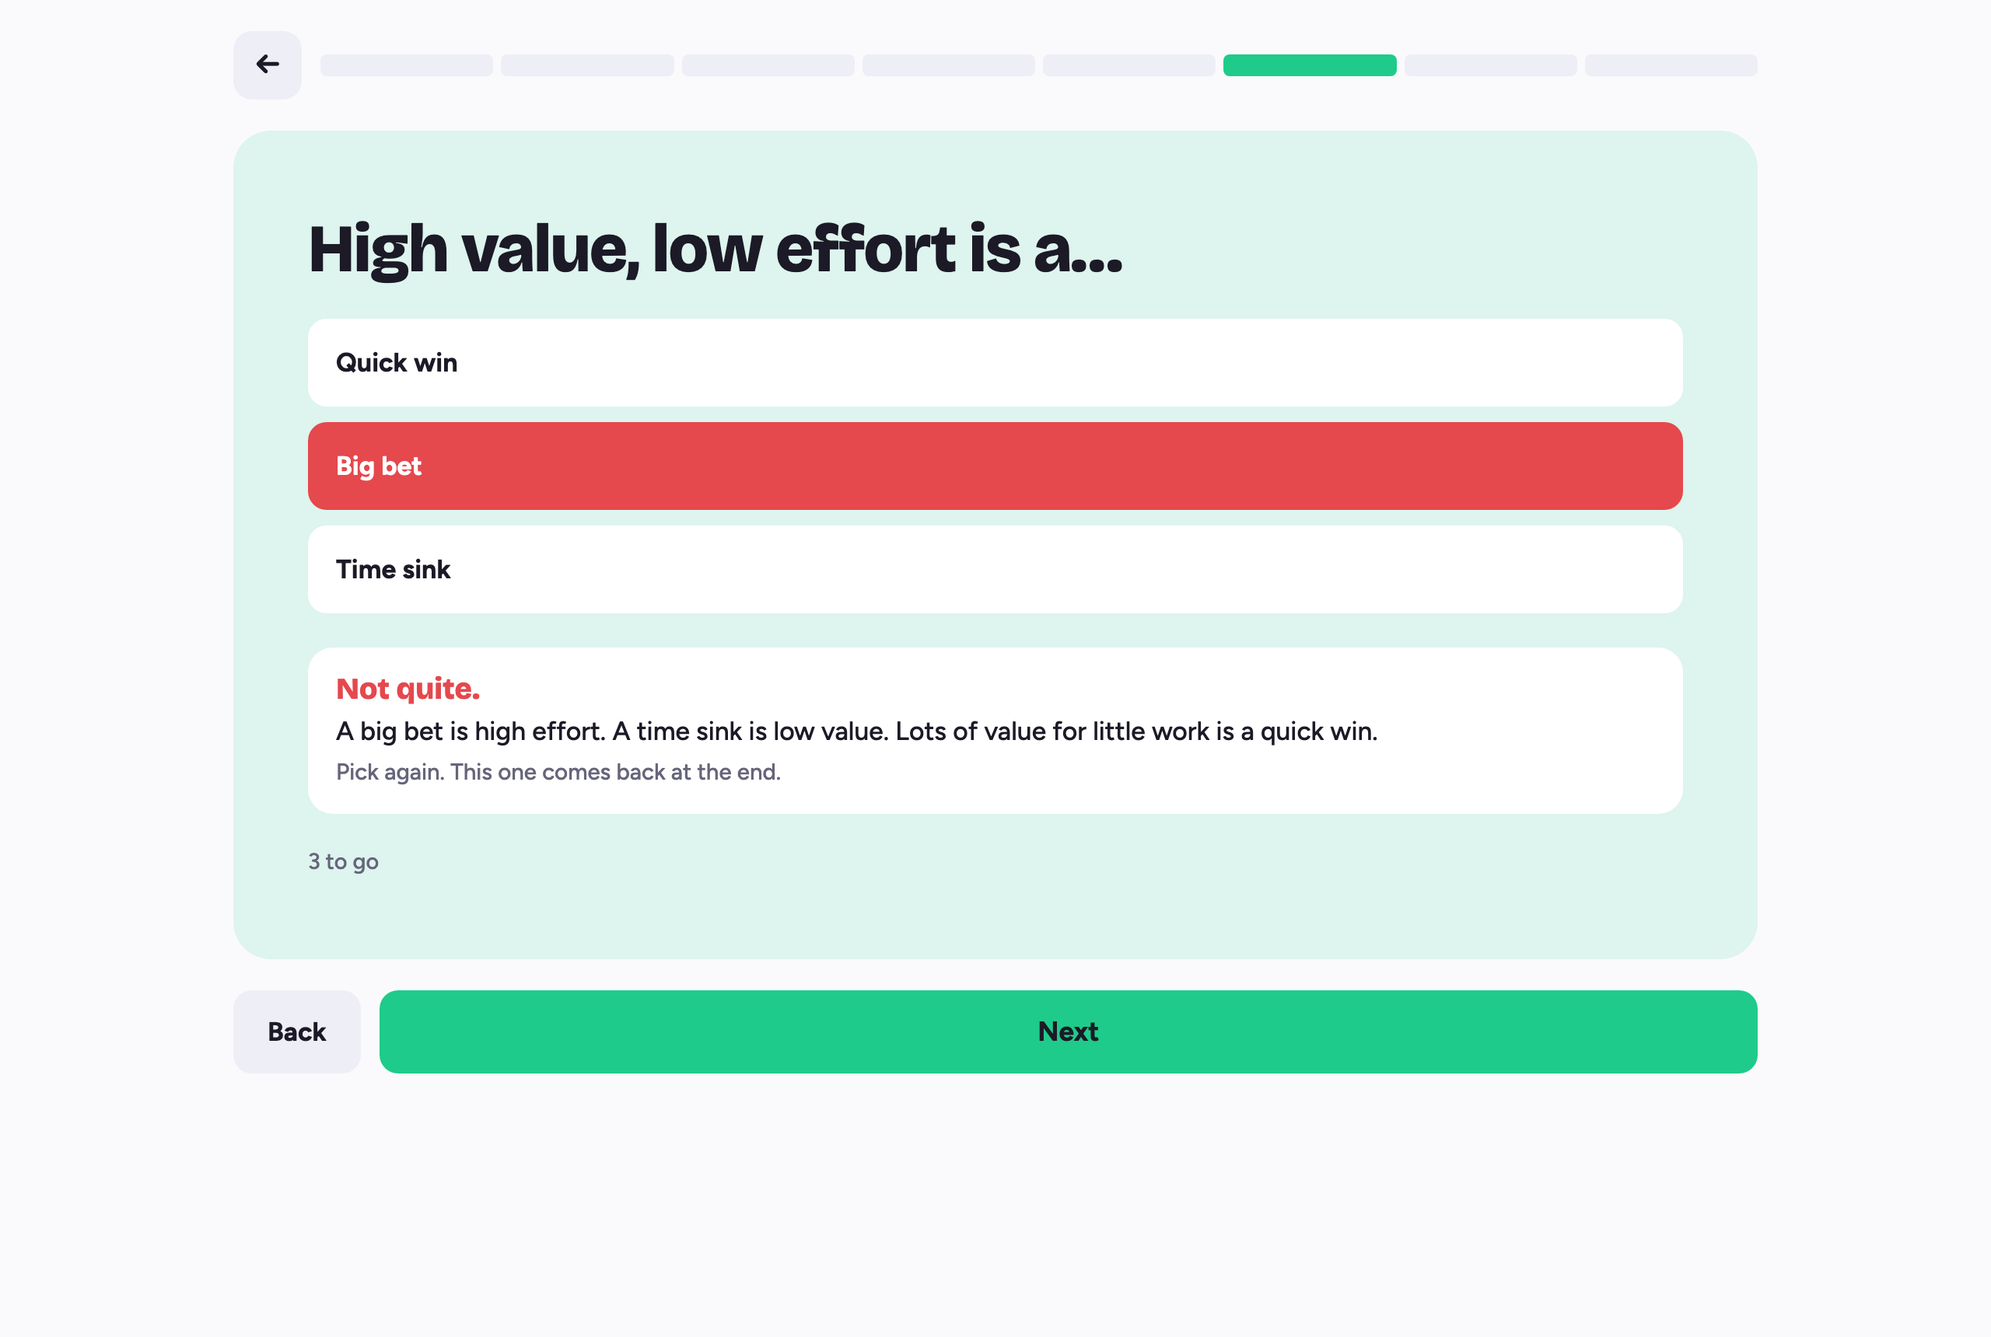
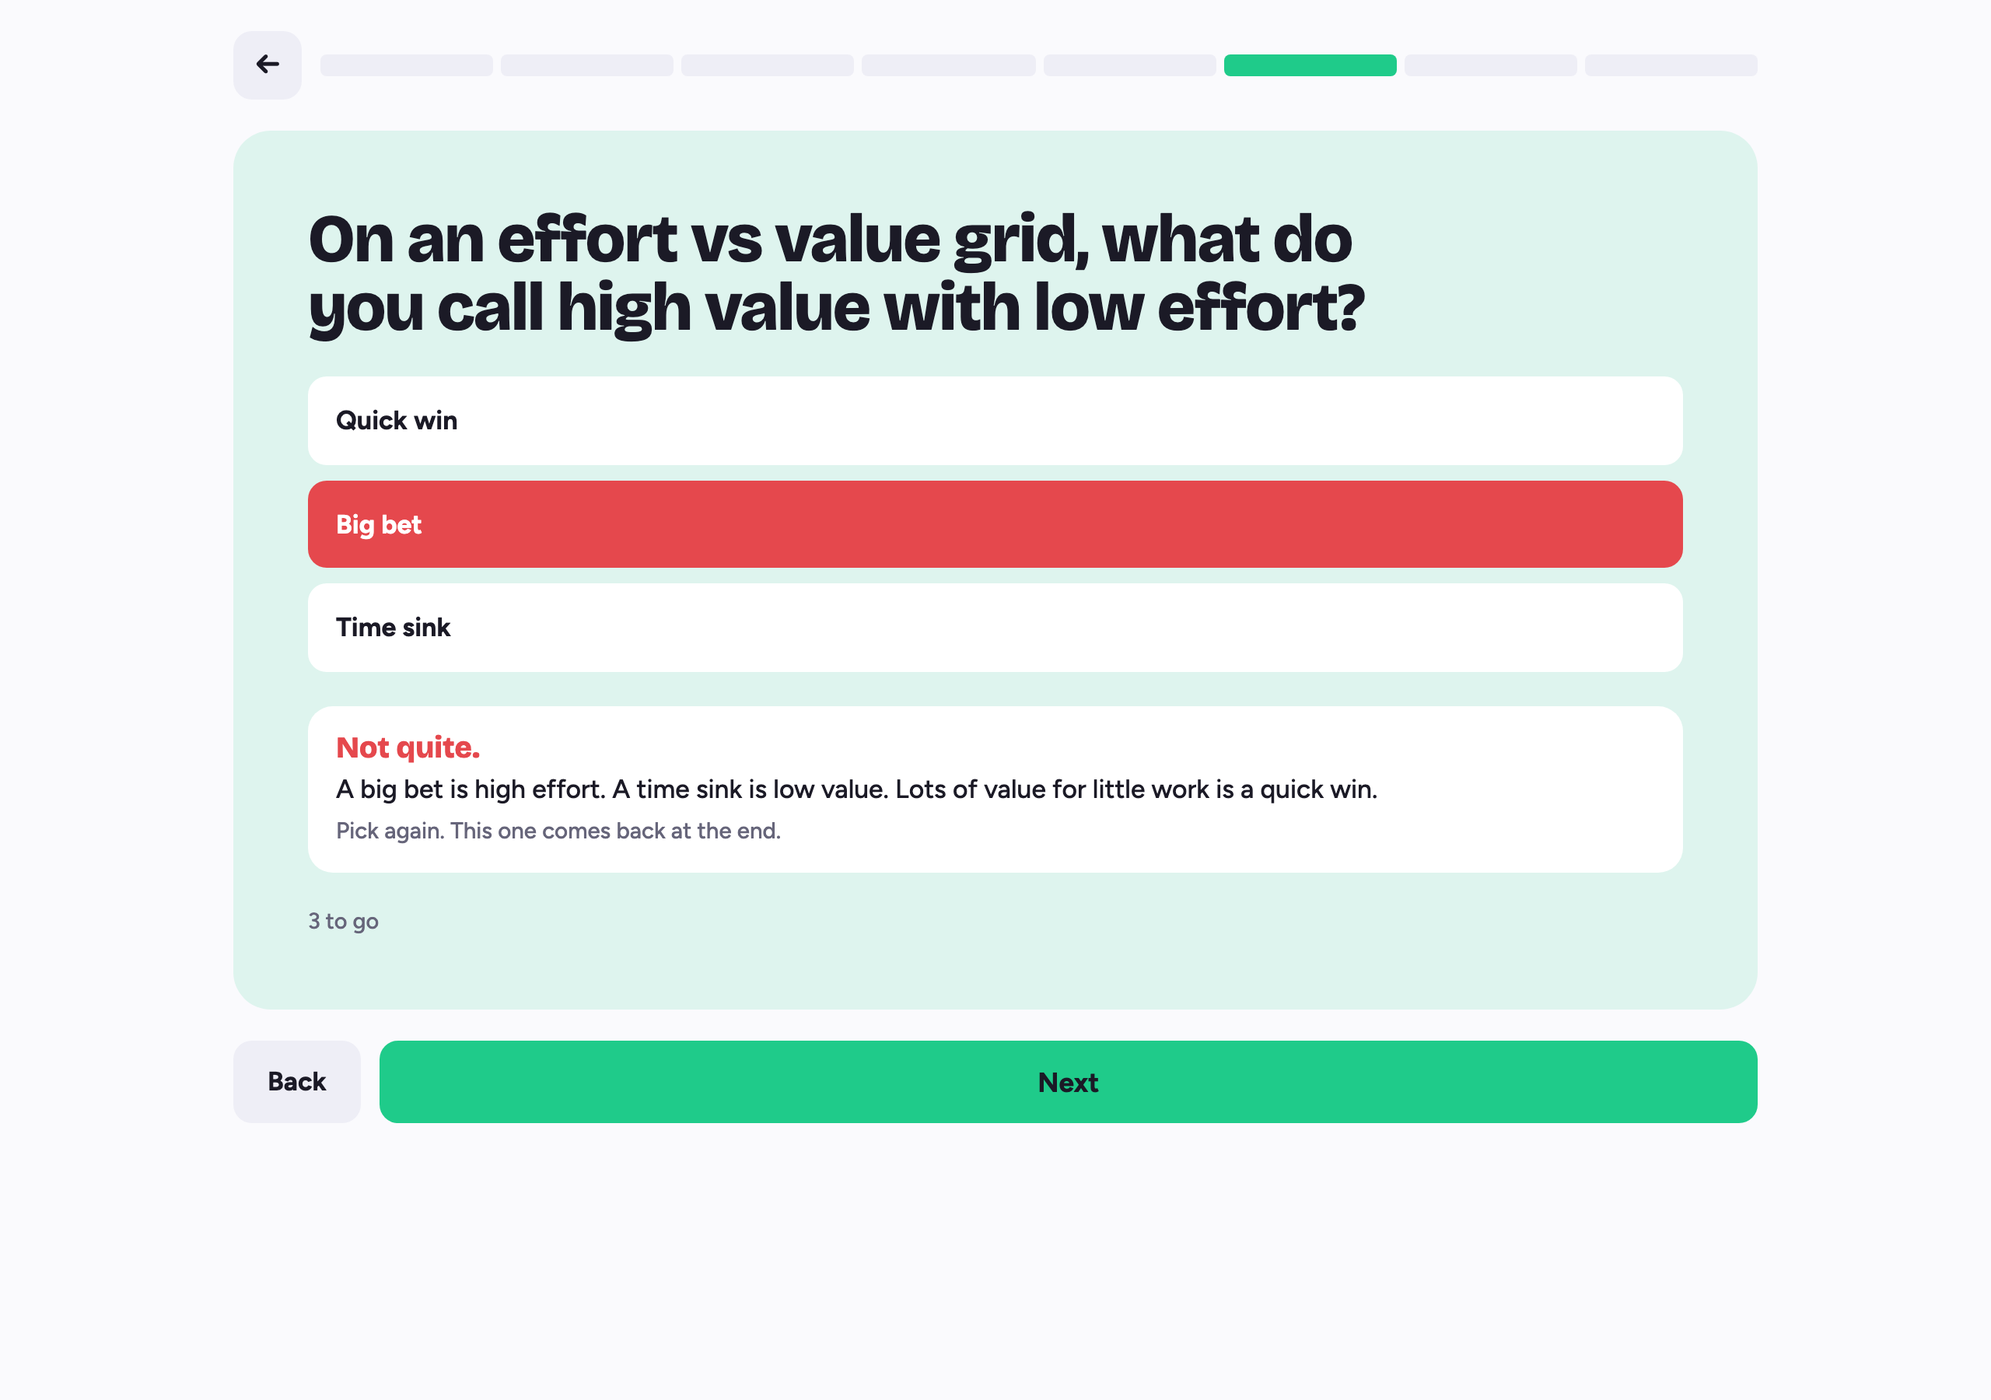
Revert opener headlines; make every question self-contained

diff --git a/src/index.html b/src/index.html
@@ -221,8 +221,8 @@ const C={yellow:['var(--yellow)','var(--ink)'],coral:['var(--coral)','var(--ink)
 
 const M=[
 {id:'m1',name:'Think',official:'Develop Strategic Product Thinking',col:'yellow',artifact:'Problem Hook',cards:[
- {t:'big',h:'Product thinking starts with one question: what did it change?',p:'Shipping a feature is output. People behaving differently because of it, in a way that also helps the business, is the outcome. That’s what a PM gets judged on.',on:['Outputs vs outcomes','Weighing ideas','B2C vs B2B','Framing a problem']},
- {t:'sort',h:'Output or outcome?',buckets:['Output','Outcome'],hints:['We made a thing','Something changed'],items:[
+ {t:'big',h:'What did your last feature actually change for users?',p:'That’s the question a PM keeps asking. Shipping a feature is output. People behaving differently because of it, in a way that also helps the business, is the outcome you get judged on.',on:['Outputs vs outcomes','Weighing ideas','B2C vs B2B','Framing a problem']},
+ {t:'sort',h:'Is each one an output or an outcome?',buckets:['Output','Outcome'],hints:['We made a thing','Something changed'],items:[
   ['Launched dark mode',0,'A launch is something you made. Nothing has changed for the user yet.'],
   ['Checkout time dropped 30%',1,'Users feel this change. That makes it an outcome.'],
   ['Released version 2 of the app',0,'A release is a delivery. Ask what it changed.'],
@@ -235,7 +235,7 @@ const M=[
   ['Effort','What does it cost to build?','Two weeks, one squad.']]},
  {t:'vs',h:'Selling to people vs selling to companies',a:'B2C',b:'B2B',rows:[
   ['The user buys','A boss or buyer signs'],['Decides in seconds','Decides in months'],['Habit and emotion','ROI and risk'],['Grows by word of mouth','Grows through sales']]},
- {t:'sort',h:'B2C or B2B?',buckets:['B2C','B2B'],items:[
+ {t:'sort',h:'Is each one B2C or B2B?',buckets:['B2C','B2B'],items:[
   ['Duolingo',0,'One person downloads it and uses it. Buyer and user are the same.'],
   ['Workday',1,'HR software bought by a company. The employees using it didn’t choose it.'],
   ['Six-month sales cycle',1,'Long cycles mean many approvers. That is a company buying.'],
@@ -247,12 +247,12 @@ const M=[
  {t:'quiz',q:[
   ['Which one is an outcome?',['We shipped onboarding v2','New users finish setup twice as fast','The team closed 30 tickets'],1,'Shipping and closing tickets are outputs. Faster setup is a change for the user.'],
   ['What usually makes B2B different?',['The buyer is often not the user','Users never pay','There are no competitors'],0,'In B2B the person who signs is often not the person who uses it.'],
-  ['Users love it, it takes a year, and it moves no business number.',['Build it now','Park it','Double the team'],1,'It wins on user value only. No business value and a huge effort means it waits.']]},
+  ['Users love an idea, but it takes a year to build and moves no business number. What do you do?',['Build it now','Park it','Double the team'],1,'It wins on user value only. No business value and a huge effort means it waits.']]},
  {t:'ask',q:['How do you push back when a stakeholder asks for a feature instead of an outcome?','Which of the three pillars gets overruled most often in your company, and by whom?']},
  {t:'build'}]},
 
 {id:'m2',name:'Discover',official:'Discover Product Opportunities via Qualitative Signals',col:'coral',artifact:'Persona & Journey Map',cards:[
- {t:'big',h:'Discovery means learning how people get by without you.',p:'Before your product exists, people manage with a spreadsheet, a group chat or a habit. Switching costs them effort. So you need to understand that workaround well, and be clearly better than it.',on:['Workarounds as clues','Personas','Journey maps','The experience gap']},
+ {t:'big',h:'People already get by without you.',p:'Before your product exists, people manage with a spreadsheet, a group chat or a habit. Switching costs them effort. So you need to understand that workaround well, and be clearly better than it.',on:['Workarounds as clues','Personas','Journey maps','The experience gap']},
  {t:'reveal',h:'Workarounds are clues',p:'Each one is someone patching a gap. Tap to see which gap.',tiles:[
   ['Screenshots of receipts','Logging an expense takes too long.'],
   ['A spreadsheet with nine tabs','The tool doesn’t fit how the team plans.'],
@@ -265,14 +265,14 @@ const M=[
   ['“I would use that”','“Last week I did this”'],['Feature wish lists','Hacks and workarounds'],['Polite compliments','Sighs, swearing, giving up']]},
  {t:'quiz',q:[
   ['Who is usually your top competitor?',['The market leader','The status quo','A new startup'],1,'Most people don’t switch to a rival. They keep doing what they already do.'],
-  ['A customer keeps a nine-tab spreadsheet next to your tool. That is…',['A training issue','A signal of an unmet need','Nothing to worry about'],1,'A workaround is effort someone spends because the product falls short.'],
-  ['Where is the opportunity on a journey map?',['The first step','Where expectation and reality are furthest apart','The final step'],1,'The position of the step doesn’t matter. The widest gap between hope and reality does.']]},
+  ['A customer keeps a nine-tab spreadsheet next to your tool. What does that tell you?',['A training issue','A signal of an unmet need','Nothing to worry about'],1,'A workaround is effort someone spends because the product falls short.'],
+  ['Where on a journey map is the best opportunity?',['The first step','Where expectation and reality are furthest apart','The final step'],1,'The position of the step doesn’t matter. The widest gap between hope and reality does.']]},
  {t:'ask',q:['What interview question gets you the most honest answers?','When did a workaround lead you to a product you actually shipped?']},
  {t:'build'}]},
 
 {id:'m3',name:'Measure',official:'Use Analytics and Metrics for Data-Driven Decisions',col:'blue',artifact:'Testable Hypothesis',cards:[
- {t:'big',h:'Metrics are only useful if they help you decide.',p:'Dashboards fill up with totals that only ever go up. The useful numbers are rates tied to user value. When one of those moves, you know where to look and what to try next.',on:['Vanity vs strategic metrics','The AARRR funnel','From data to hypothesis']},
- {t:'sort',h:'Vanity or strategic?',buckets:['Vanity','Strategic'],hints:['Only goes up','Changes a decision'],items:[
+ {t:'big',h:'Which numbers on your dashboard actually matter?',p:'Dashboards fill up with totals that only ever go up. The useful numbers are rates tied to user value. When one of those moves, you know where to look and what to try next.',on:['Vanity vs strategic metrics','The AARRR funnel','From data to hypothesis']},
+ {t:'sort',h:'Is each metric vanity or strategic?',buckets:['Vanity','Strategic'],hints:['Only goes up','Changes a decision'],items:[
   ['Total downloads, all time',0,'It can only go up, so it never tells you to change course.'],
   ['Share of new users who finish setup',1,'A rate. If it drops, you know exactly where to look.'],
   ['Page views',0,'Volume without context. More views doesn’t mean more value.'],
@@ -289,14 +289,14 @@ const M=[
   ['Decision window','The date we look at the data and decide.']]},
  {t:'quiz',q:[
   ['Which one is a vanity metric?',['Total sign-ups ever','Week-4 retention','Activation rate'],0,'A lifetime total only goes up. It can’t tell you to change anything.'],
-  ['People sign up but never create a first plan. Which stage leaks?',['Acquisition','Activation','Revenue'],1,'They signed up, so acquisition works. They never got a first win, so activation leaks.'],
+  ['People sign up but never create a first meal plan. Which funnel stage is leaking?',['Acquisition','Activation','Revenue'],1,'They signed up, so acquisition works. They never got a first win, so activation leaks.'],
   ['What is a guardrail?',['The metric you want to grow','A metric that must not get worse','A deadline'],1,'The success metric is what you chase. The guardrail protects what you already have.']]},
  {t:'ask',q:['Which metric did you stop tracking, and what did you replace it with?','How do you pick a decision window when traffic is low?']},
  {t:'build'}]},
 
 {id:'m4',name:'Plan',official:'Build High-Velocity Product Roadmaps',col:'green',artifact:'Roadmap & Simple PRD',cards:[
  {t:'big',h:'A roadmap is a list of priorities, not a calendar.',p:'It shows what the team works on first and why. Firm near the top, looser further out. The hard part is deciding what has to wait.',on:['Effort vs value','Now, Next, Later','Scoping an MVP','A one-page PRD']},
- {t:'sort',h:'Where does each idea land?',grid:1,buckets:['Quick win','Big bet','Fill-in','Time sink'],hints:['High value · low effort','High value · high effort','Low value · low effort','Low value · high effort'],items:[
+ {t:'sort',h:'Where does each idea land on effort vs value?',grid:1,buckets:['Quick win','Big bet','Fill-in','Time sink'],hints:['High value · low effort','High value · high effort','Low value · low effort','Low value · high effort'],items:[
   ['Reorder last week’s plan in one tap. Users beg for it. Two days.',0,'Users beg for it and it takes two days. High value, low effort.'],
   ['Build a plan from a photo of your fridge. Huge demand. Four months.',1,'Huge demand, but four months of work. High value, high effort.'],
   ['New colors for the app icon. Nobody asked. One afternoon.',2,'Nobody asked, but it’s one afternoon. Low value, low effort.'],
@@ -315,14 +315,14 @@ const M=[
   ['Problem','Who hurts, and why?'],['Goal','Which metric moves?'],['Scope','Musts in. Won’ts out.'],
   ['User stories','As a…, I want…, so that…'],['Open questions','What we don’t know yet.']]},
  {t:'quiz',q:[
-  ['High value, low effort is a…',['Quick win','Big bet','Time sink'],0,'A big bet is high effort. A time sink is low value. Lots of value for little work is a quick win.'],
-  ['What does “Later” mean?',['Committed with a date','An idea we may explore','Cancelled'],1,'Later is a parking spot for ideas. No commitment, no date, not cancelled.'],
-  ['The W in MoSCoW stands for…',['Would be nice','Won’t have this time','Work in progress'],1,'“Nice if time allows” is Could. Won’t names what is out, which protects the scope.']]},
+  ['On an effort vs value grid, what do you call high value with low effort?',['Quick win','Big bet','Time sink'],0,'A big bet is high effort. A time sink is low value. Lots of value for little work is a quick win.'],
+  ['On a Now, Next, Later roadmap, what does “Later” mean?',['Committed with a date','An idea we may explore','Cancelled'],1,'Later is a parking spot for ideas. No commitment, no date, not cancelled.'],
+  ['What does the W in MoSCoW stand for?',['Would be nice','Won’t have this time','Work in progress'],1,'“Nice if time allows” is Could. Won’t names what is out, which protects the scope.']]},
  {t:'ask',q:['How do you say no to a stakeholder whose request lands in “Later”?','How detailed is your PRD now that AI can draft one in a minute?']},
  {t:'build'}]},
 
 {id:'m5',name:'Test',official:'Run Effective Product Experimentation',col:'purple',artifact:'Experiment Brief',cards:[
- {t:'big',h:'Experiments let you find out cheaply before you build.',p:'Every idea rests on a few guesses. Test the riskiest one first. The right method depends on what you want to learn, how much traffic you have and what it costs to be wrong.',on:['Six ways to test','Choosing a method','The experiment brief']},
+ {t:'big',h:'Find out cheaply before you build expensively.',p:'Every idea rests on a few guesses. Test the riskiest one first. The right method depends on what you want to learn, how much traffic you have and what it costs to be wrong.',on:['Six ways to test','Choosing a method','The experiment brief']},
  {t:'reveal',h:'Six ways to test an idea',tiles:[
   ['A/B test','Two versions on live traffic. Compare one metric.'],
   ['Fake door','Show the button before building the feature. Count the clicks.'],
@@ -330,8 +330,8 @@ const M=[
   ['Concierge','Deliver it by hand to a few users first.'],
   ['Staged rollout','Ship to 5%, watch the guardrails, then widen.'],
   ['Interviews','Ask 5 to 8 people about the last time it happened.']]},
- {t:'picker',h:'Which method fits your situation?'},
- {t:'sort',h:'Which test fits?',buckets:['A/B test','Fake door','Prototype test'],items:[
+ {t:'picker',h:'Which test method fits your situation?'},
+ {t:'sort',h:'Which test fits each question?',buckets:['A/B test','Fake door','Prototype test'],items:[
   ['Does “Start free” beat “Try now”? 50,000 visits a day.',0,'Two versions and plenty of traffic. Compare them live.'],
   ['Would anyone want a meal-swap feature? It isn’t built.',1,'It isn’t built, so measure demand first. Show the button and count clicks.'],
   ['Can people find the shopping list in the new menu?',2,'This asks whether people can use it. Watch five of them try.'],
@@ -341,21 +341,21 @@ const M=[
   ['Hypothesis','The guess you are testing.'],['Method','How you will test it.'],['Audience','Who sees it, and how many.'],
   ['Success metric','The number that should move.'],['Guardrails','What must not break.'],['Decision rule','If X, ship. If Y, stop.']]},
  {t:'quiz',q:[
-  ['Low traffic, and you want to know if people can use it.',['A/B test','Prototype test with five users','Press release'],1,'An A/B test needs lots of traffic. Usability problems show up with five people.'],
+  ['You have little traffic and want to know if people can use a new design. Which test?',['A/B test','Prototype test with five users','Press release'],1,'An A/B test needs lots of traffic. Usability problems show up with five people.'],
   ['What does a fake door measure?',['Usability','Demand','Revenue'],1,'There is nothing to use or pay for yet. Clicks only show that people want it.'],
   ['When do you write the decision rule?',['After the results','Before the test starts','Whenever'],1,'Set the rule first, so the result can’t bend your judgment.']]},
  {t:'ask',q:['What experiment gave you a result you didn’t want, and what did you do?','How do you test when you only have a few hundred users?']},
  {t:'build'}]},
 
 {id:'m6',name:'Launch',official:'Launch Impactful GTM Plans',col:'pink',artifact:'GTM Launch Plan',cards:[
- {t:'big',h:'Go-to-market is how a change reaches the right people.',p:'Someone has to decide who hears about it, where, and in what order. A small fix needs a release note. A new product needs a plan.',on:['Five GTM choices','Sizing a launch','Channels','Rolling out in phases']},
+ {t:'big',h:'Launching is more than pressing deploy.',p:'Someone has to decide who hears about it, where, and in what order. A small fix needs a release note. A new product needs a plan.',on:['Five GTM choices','Sizing a launch','Channels','Rolling out in phases']},
  {t:'steps',h:'A GTM plan makes five choices.',steps:[
   ['Goal','What success looks like'],['Audience','Who needs to hear it'],['Size','How loud to be'],['Channels','Where to say it'],['Phases','In what order']]},
  {t:'cols',h:'Match the noise to the change',cols:[
   ['Small','Release note. In-app tip.','A fix or a tweak'],
   ['Medium','Email, blog, banner, sales brief.','A new feature'],
   ['Big','Campaign, press, event, full training.','A new product or market']]},
- {t:'sort',h:'How big is this launch?',buckets:['Small','Medium','Big'],items:[
+ {t:'sort',h:'How big should each launch be?',buckets:['Small','Medium','Big'],items:[
   ['Fixed a sync bug',0,'A fix needs a release note, not a campaign.'],
   ['New shared shopping list',1,'A new feature for people who already use the app. Email and in-app will do.'],
   ['Opening in a new country',2,'A new market knows nothing about you. It needs the full push.'],
@@ -367,7 +367,7 @@ const M=[
  {t:'steps',h:'Roll it out in phases',steps:[
   ['Internal','Team uses it. Support and sales get trained.'],['Beta','A small group. Fix what breaks.'],['General release','Everyone. The full announcement.'],['Follow-up','Check the metric. Share the result.']]},
  {t:'quiz',q:[
-  ['A small bug fix deserves…',['A press tour','A release note','A launch event'],1,'Match the noise to the size of the change. A fix gets a note.'],
+  ['What kind of launch does a small bug fix need?',['A press tour','A release note','A launch event'],1,'Match the noise to the size of the change. A fix gets a note.'],
   ['What is a beta for?',['Finding what breaks with a small group','Maximizing revenue','Press coverage'],0,'Revenue and press come with the general release. A beta finds problems while the audience is small.'],
   ['What do you decide first in a GTM plan?',['The channels','The goal','The launch party'],1,'The goal decides the audience, the size and the channels. Everything else follows from it.']]},
  {t:'ask',q:['What did your best launch do in the week before release?','How do you keep sales and support in sync with product during a rollout?']},
@@ -513,7 +513,7 @@ const R={
   el.querySelectorAll('.frow').forEach(b=>b.onclick=()=>{sel=+b.dataset.i;show()});show();
  },
  picker(c,el){
-  const G=[['What do you need to know?',['Do they want it?','Can they use it?','Does it move the metric?']],['How much traffic?',['Low','High']],['If you’re wrong?',['Cheap to undo','Costly']]];
+  const G=[['What do you want to learn?',['Do they want it?','Can they use it?','Does it move the metric?']],['How much traffic do you have?',['Low','High']],['What happens if you’re wrong?',['Cheap to undo','Costly']]];
   const v=[0,0,0];
   const ans=()=>{const[q,t,r]=v;
    if(q===1)return['Prototype test','Five people and a clickable mock find most usability problems. Traffic doesn’t matter.'+(r?' Test before any code ships.':'')];
